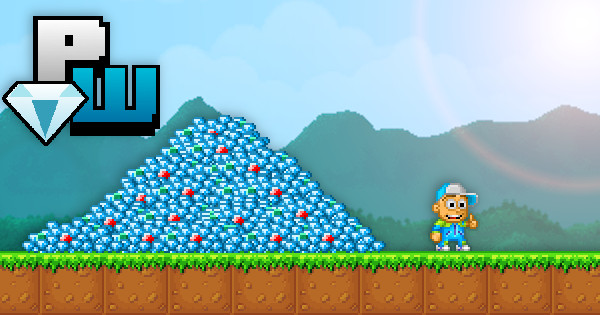
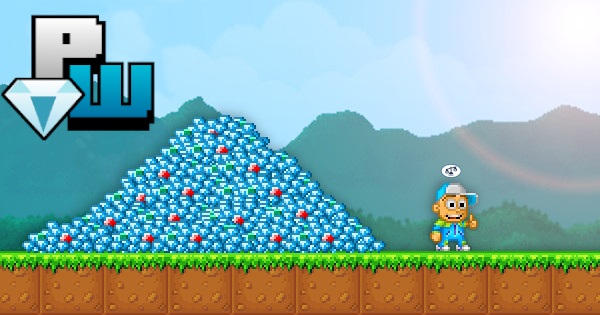
added 404 page and meta-data to main page

Changed region(s): [[0.0, 0.0286, 0.3, 0.4571], [0.72, 0.5143, 0.78, 0.5714]]

diff --git a/404.html b/404.html
@@ -1,0 +1,65 @@
+<!DOCTYPE html>
+<html>
+<head>
+	<title>404</title>
+	<meta charset="utf-8">
+	<meta content="width=device-width, initial-scale=1" name="viewport">
+	<link href="https://maxcdn.bootstrapcdn.com/bootstrap/4.5.2/css/bootstrap.min.css" rel="stylesheet">
+	<script src="https://ajax.googleapis.com/ajax/libs/jquery/3.5.1/jquery.min.js">
+	</script>
+	<script src="https://cdnjs.cloudflare.com/ajax/libs/popper.js/1.16.0/umd/popper.min.js">
+	</script>
+	<script src="https://maxcdn.bootstrapcdn.com/bootstrap/4.5.2/js/bootstrap.min.js">
+	</script>
+	<link href="https://use.fontawesome.com/releases/v5.7.0/css/all.css" rel="stylesheet">
+	<link href="favicon.png" rel="icon"><!-- Styling of the page -->
+
+	<style>
+	       body {
+		   background-image:url('img/stars.jpg');
+		   }
+		   .page-wrap {
+				min-height: 100vh;
+			}
+	</style>
+</head>
+<body>
+	<!-- This is the Navigation Bar fixed at the top always.-->
+	<nav class="navbar navbar-expand-md bg-dark navbar-dark">
+		<a class="navbar-brand" href="index.html"><img alt="Logo" src="img/icon.png" style="width:40px;"></a> <button class="navbar-toggler" data-target="#collapsibleNavbar" data-toggle="collapse" type="button"><span class="navbar-toggler-icon"></span></button>
+		<div class="collapse navbar-collapse" id="collapsibleNavbar">
+			<ul class="navbar-nav">
+				<li class="nav-item">
+					<a class="nav-link active" href="index.html"><i class="fas fa-home"></i> Home</a>
+				</li>
+				<li class="nav-item">
+					<a class="nav-link" href="calculator.html"><i class="fas fa-calculator"></i> Calculator</a>
+				</li>
+				<li class="nav-item dropdown">
+					<a class="nav-link dropdown-toggle" data-toggle="dropdown" href="Experimental" id="navbardrop"><i class="fas fa-flask"></i> Experimental</a>
+					<div class="dropdown-menu">
+						<a class="dropdown-item" href="newcalculator.html">List Calculator <span class="badge badge-secondary">New</span></a> <a class="dropdown-item disabled" href="#">Item Creator <span class="badge badge-warning">WIP</span></a>
+					</div>
+				</li>
+				<li class="nav-item">
+					<a class="nav-link" href="#">...</a>
+				</li>
+			</ul>
+		</div>
+	</nav><!-- Navigation bar ends here -->
+	<div class="page-wrap d-flex flex-row align-items-center">
+    <div class="container">
+        <div class="row justify-content-center">
+            <div class="col-md-12 text-center">
+                <span class="display-1 d-block" style="color:white;">404</span>
+                <div class="mb-4 lead" style="color:white;">The page you are looking for was not found.<br><img src="img/emoji/sad.png" ></div>
+                <a href="https://www.totoprayogo.com/#" class="btn btn-link">Back to Home</a>
+            </div>
+        </div>
+    </div>
+</div>
+
+	<!-- Website content starts here. Main page has a Jumbotron -->
+	
+</body>
+</html>

diff --git a/index.html b/index.html
@@ -14,6 +14,25 @@
 	<link href="https://use.fontawesome.com/releases/v5.7.0/css/all.css" rel="stylesheet">
 	<link href="favicon.png" rel="icon"><!-- Styling of the page -->
 
+	<!-- Primary Meta Tags -->
+		<title>Pixelworlds Gems</title>
+		<meta name="title" content="Pixelworlds Gems - Advanced Calculator">
+		<meta name="description" content="With Pixelworlds Gems you can calculate gems from fish or gemstones using many advanced features! You can also use some other pixelworlds related tools to enhance your pixelworlds creations.">
+
+		<!-- Open Graph / Facebook -->
+		<meta property="og:type" content="website">
+		<meta property="og:url" content="https://pwgems.com/">
+		<meta property="og:title" content="Pixelworlds Gems - Advanced Calculator">
+		<meta property="og:description" content="With Pixelworlds Gems you can calculate gems from fish or gemstones using many advanced features! You can also use some other pixelworlds related tools to enhance your pixelworlds creations.">
+		<meta property="og:image" content="img/meta.jpg">
+
+		<!-- Twitter -->
+		<meta property="twitter:card" content="summary_large_image">
+		<meta property="twitter:url" content="https://pwgems.com/">
+		<meta property="twitter:title" content="Pixelworlds Gems - Advanced Calculator">
+		<meta property="twitter:description" content="With Pixelworlds Gems you can calculate gems from fish or gemstones using many advanced features! You can also use some other pixelworlds related tools to enhance your pixelworlds creations.">
+		<meta property="twitter:image" content="img/meta.jpg">
+
 	<style>
 	       .jumbotron {
 	           background: rgb(48,197,240);
